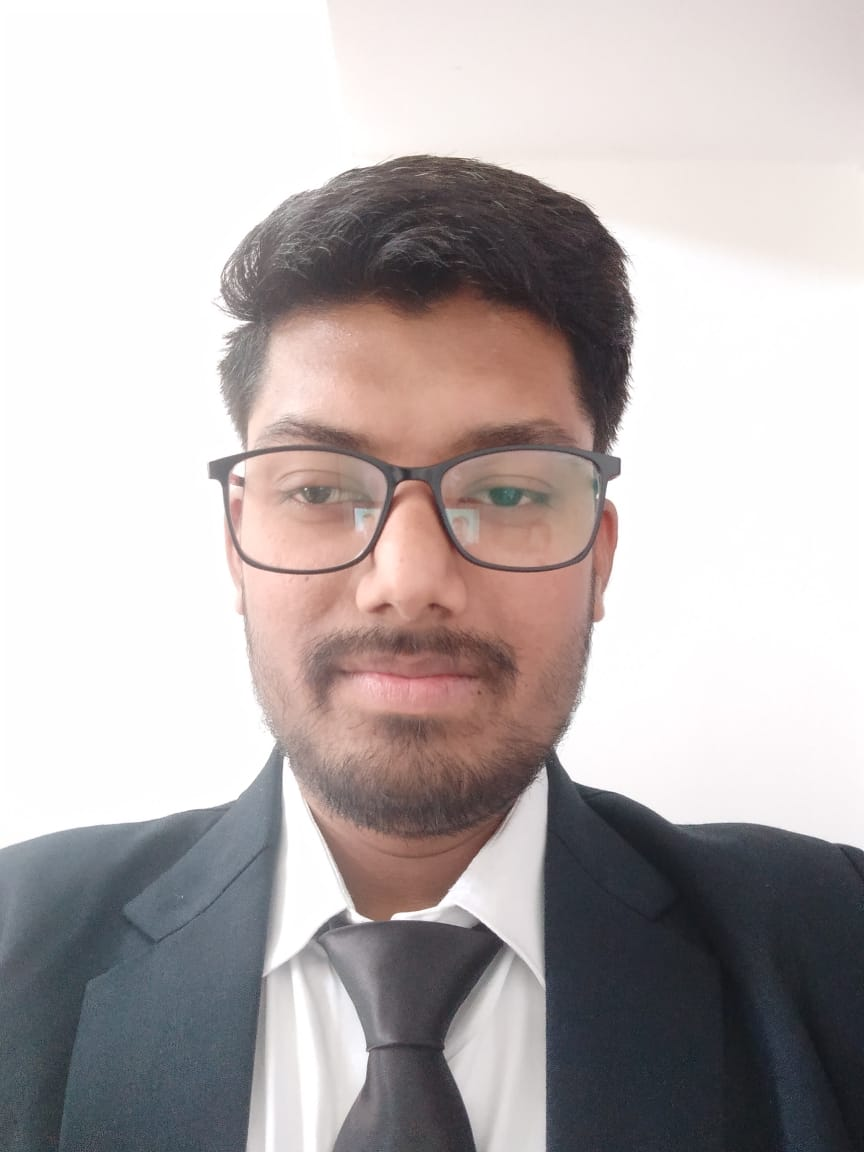
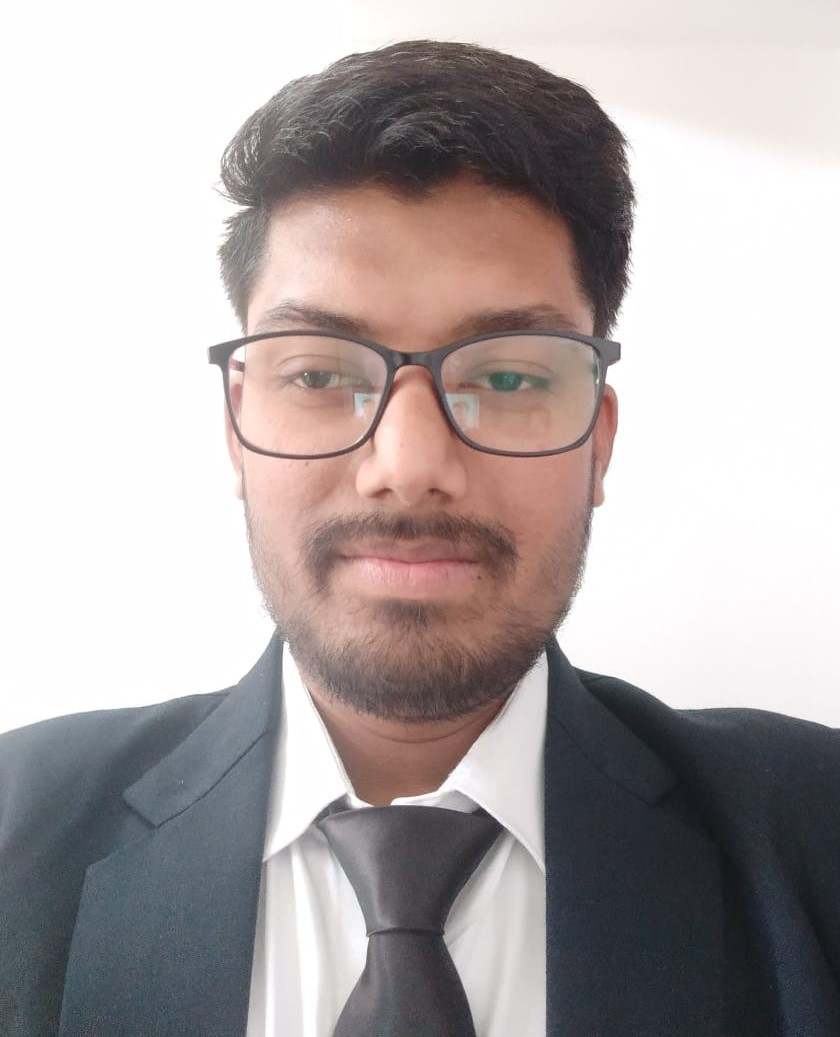
about image changed

diff --git a/index.html b/index.html
@@ -56,7 +56,7 @@
     <!-- About section Design-->
     <section class="about" id="about">
         <div class="about-img">
-            <img src="images/home-3.png" alt="Profile Picture">
+            <img src="images/home-5.jpeg" alt="Profile Picture">
         </div>
 
         <div class="about-content">

diff --git a/css/style.css b/css/style.css
@@ -178,7 +178,7 @@ span {
 } 
 
 .about-img img{
-    width: 25vw;
+    width: 22vw;
     object-fit: cover;
     border-radius: 200px;
 }
